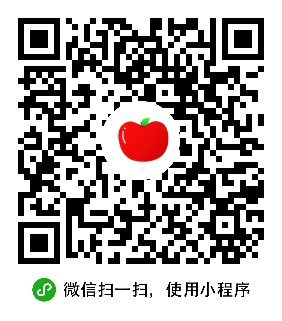
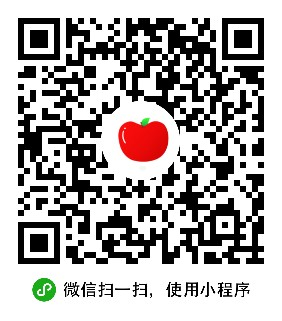
weixin pay body

Changed region(s): [[0.0567, 0.0312, 0.9362, 0.8411]]

diff --git a/modules/content/controllers/WeixinPayController.php b/modules/content/controllers/WeixinPayController.php
@@ -35,7 +35,8 @@ class WeixinPayController extends  Controller{
         $paramArr['appid'] = \Yii::$app->params['appId'];
         $paramArr['mch_id'] = Yii::$app->params['wxMchId'];
         $paramArr['nonce_str'] = md5($orderNumber);//随机数
-        $paramArr['body'] = substr($productName,0,126);//商品描述
+//        $paramArr['body'] = substr($productName,0,126);//商品描述
+        $paramArr['body'] = '仁马商品购买';//商品描述
         $paramArr['out_trade_no'] = $orderNumber;//商户订单号
         $paramArr['total_fee'] = $amount*100;;//总金额 金额处理 单位为分
         $paramArr['spbill_create_ip'] = self::getIP();//终端ip
